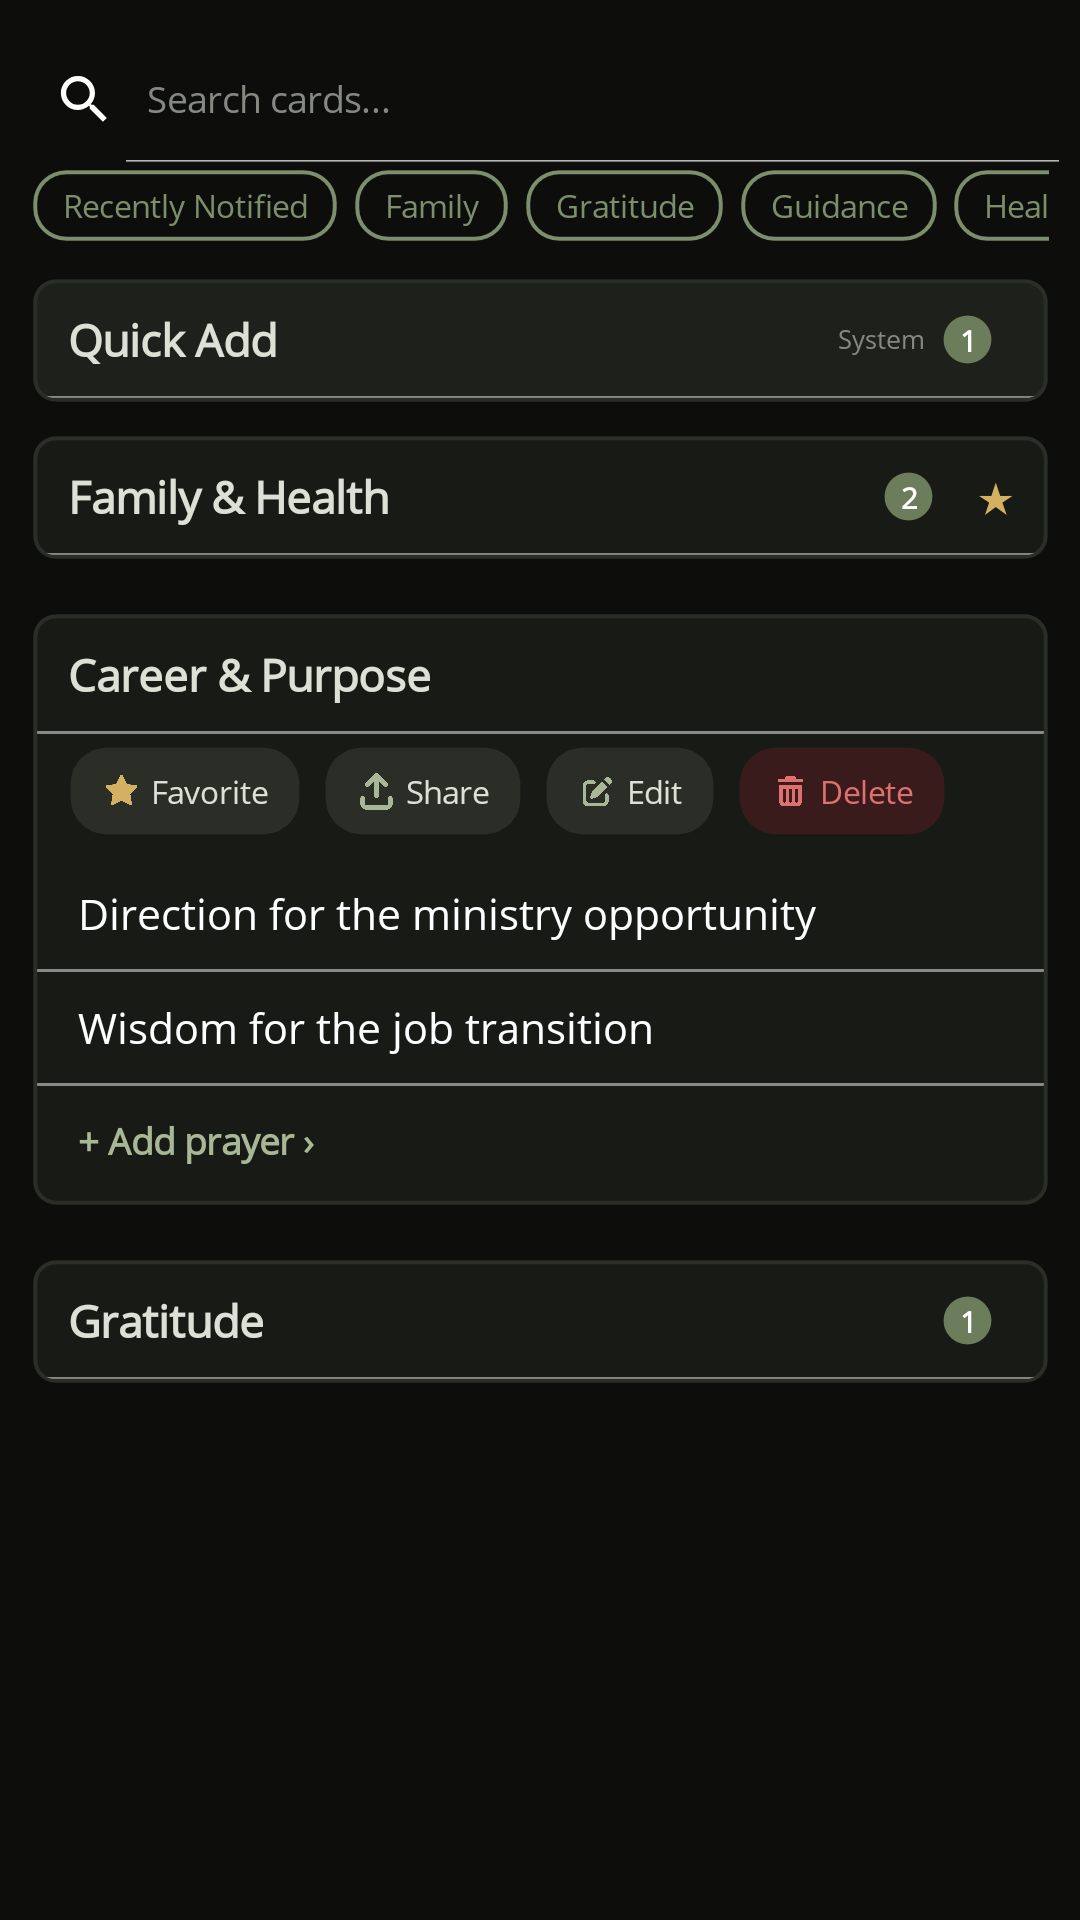
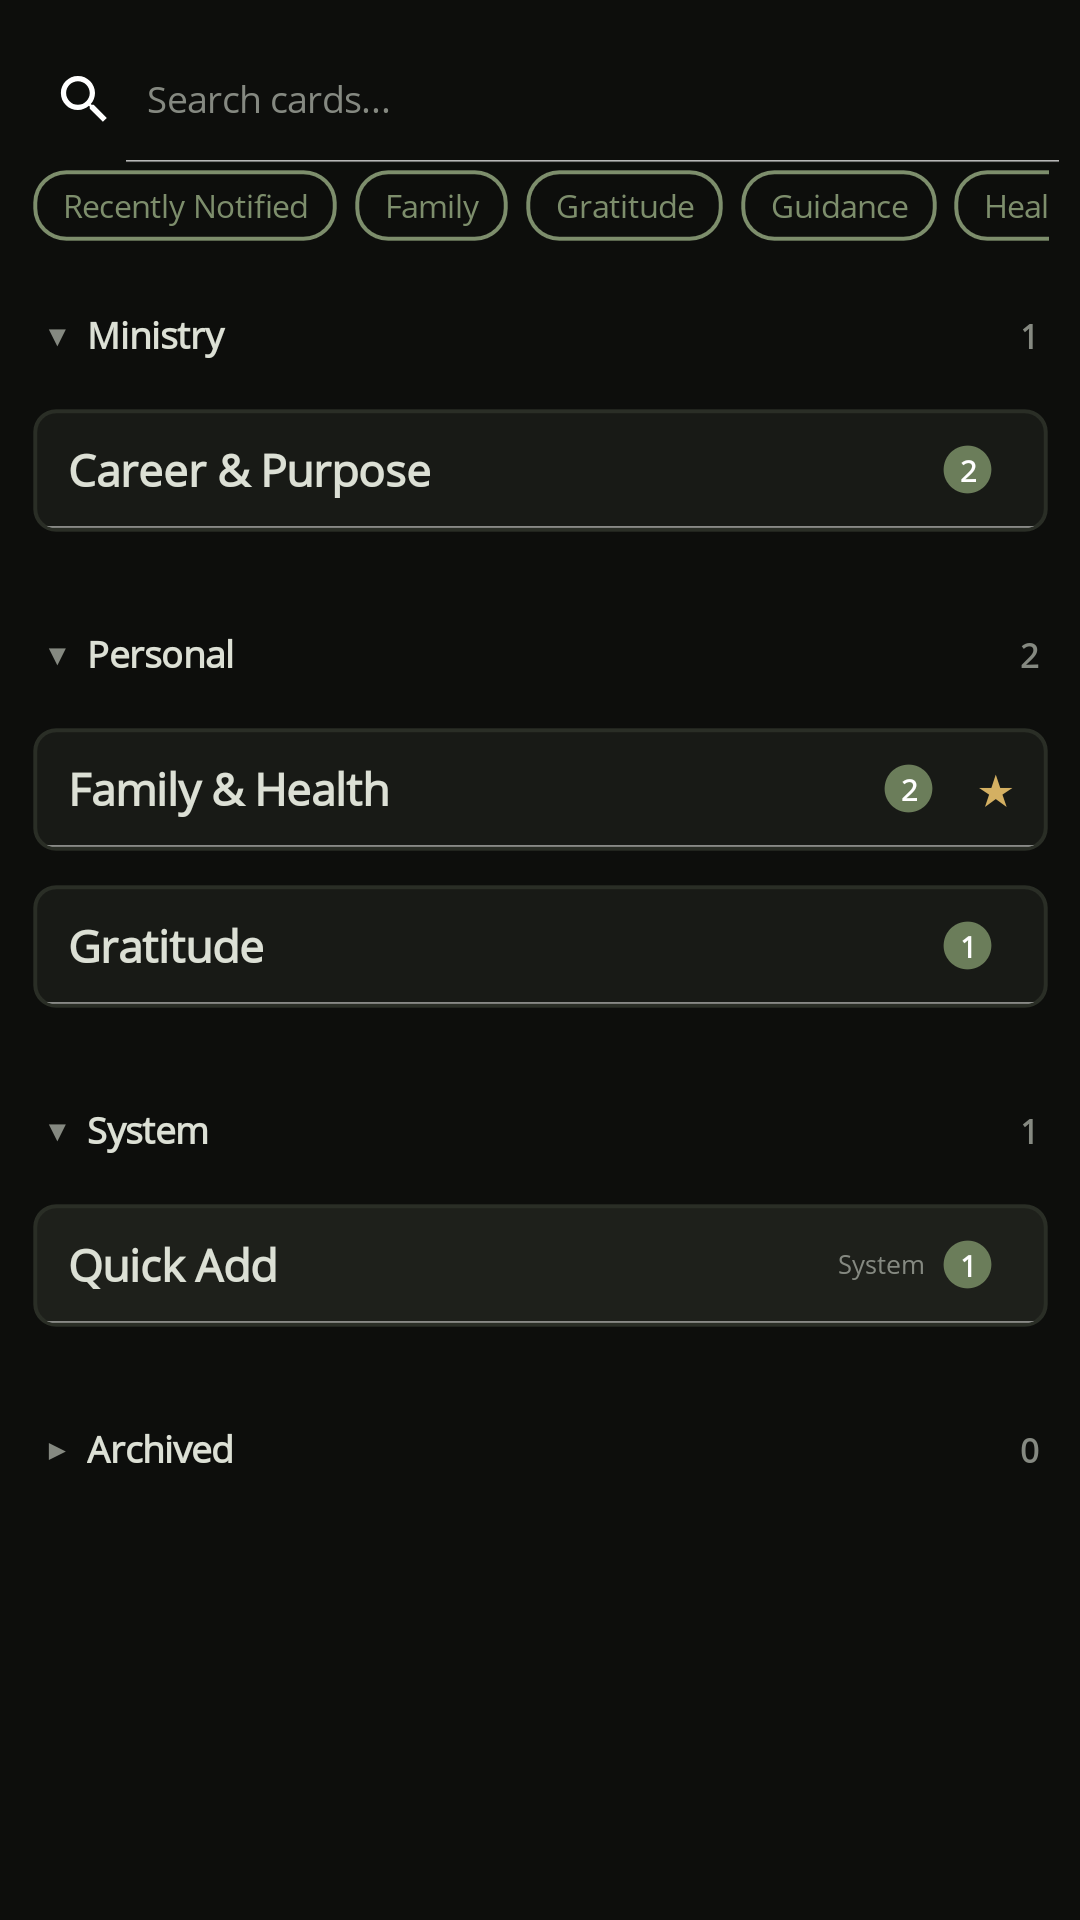
fixes and partial android screenshots

diff --git a/PrayerApp/Views/PrayerTime/PrayerTimeBoxScopePage.xaml b/PrayerApp/Views/PrayerTime/PrayerTimeBoxScopePage.xaml
@@ -23,17 +23,16 @@
                 <VerticalStackLayout BindableLayout.ItemsSource="{Binding Boxes}" Spacing="0">
                     <BindableLayout.ItemTemplate>
                         <DataTemplate x:DataType="viewModels:SelectableBox">
-                            <Grid Padding="8,10" ColumnDefinitions="*, Auto">
-                                <Label Grid.Column="0"
-                                       Text="{Binding Box.Name}"
-                                       VerticalOptions="Center"
-                                       TextColor="{AppThemeBinding Light={StaticResource Tertiary}, Dark={StaticResource TextPrimaryDark}}" />
-                                <RadioButton Grid.Column="1"
-                                             IsChecked="{Binding IsSelected}"
-                                             GroupName="BoxSelection"
-                                             SemanticProperties.Description="{Binding Box.Name}"
-                                             VerticalOptions="Center" />
-                            </Grid>
+                            <RadioButton IsChecked="{Binding IsSelected}"
+                                         GroupName="BoxSelection"
+                                         Padding="8,10"
+                                         SemanticProperties.Description="{Binding Box.Name}">
+                                <RadioButton.Content>
+                                    <Label Text="{Binding Box.Name}"
+                                           VerticalOptions="Center"
+                                           TextColor="{AppThemeBinding Light={StaticResource Tertiary}, Dark={StaticResource TextPrimaryDark}}" />
+                                </RadioButton.Content>
+                            </RadioButton>
                         </DataTemplate>
                     </BindableLayout.ItemTemplate>
                 </VerticalStackLayout>